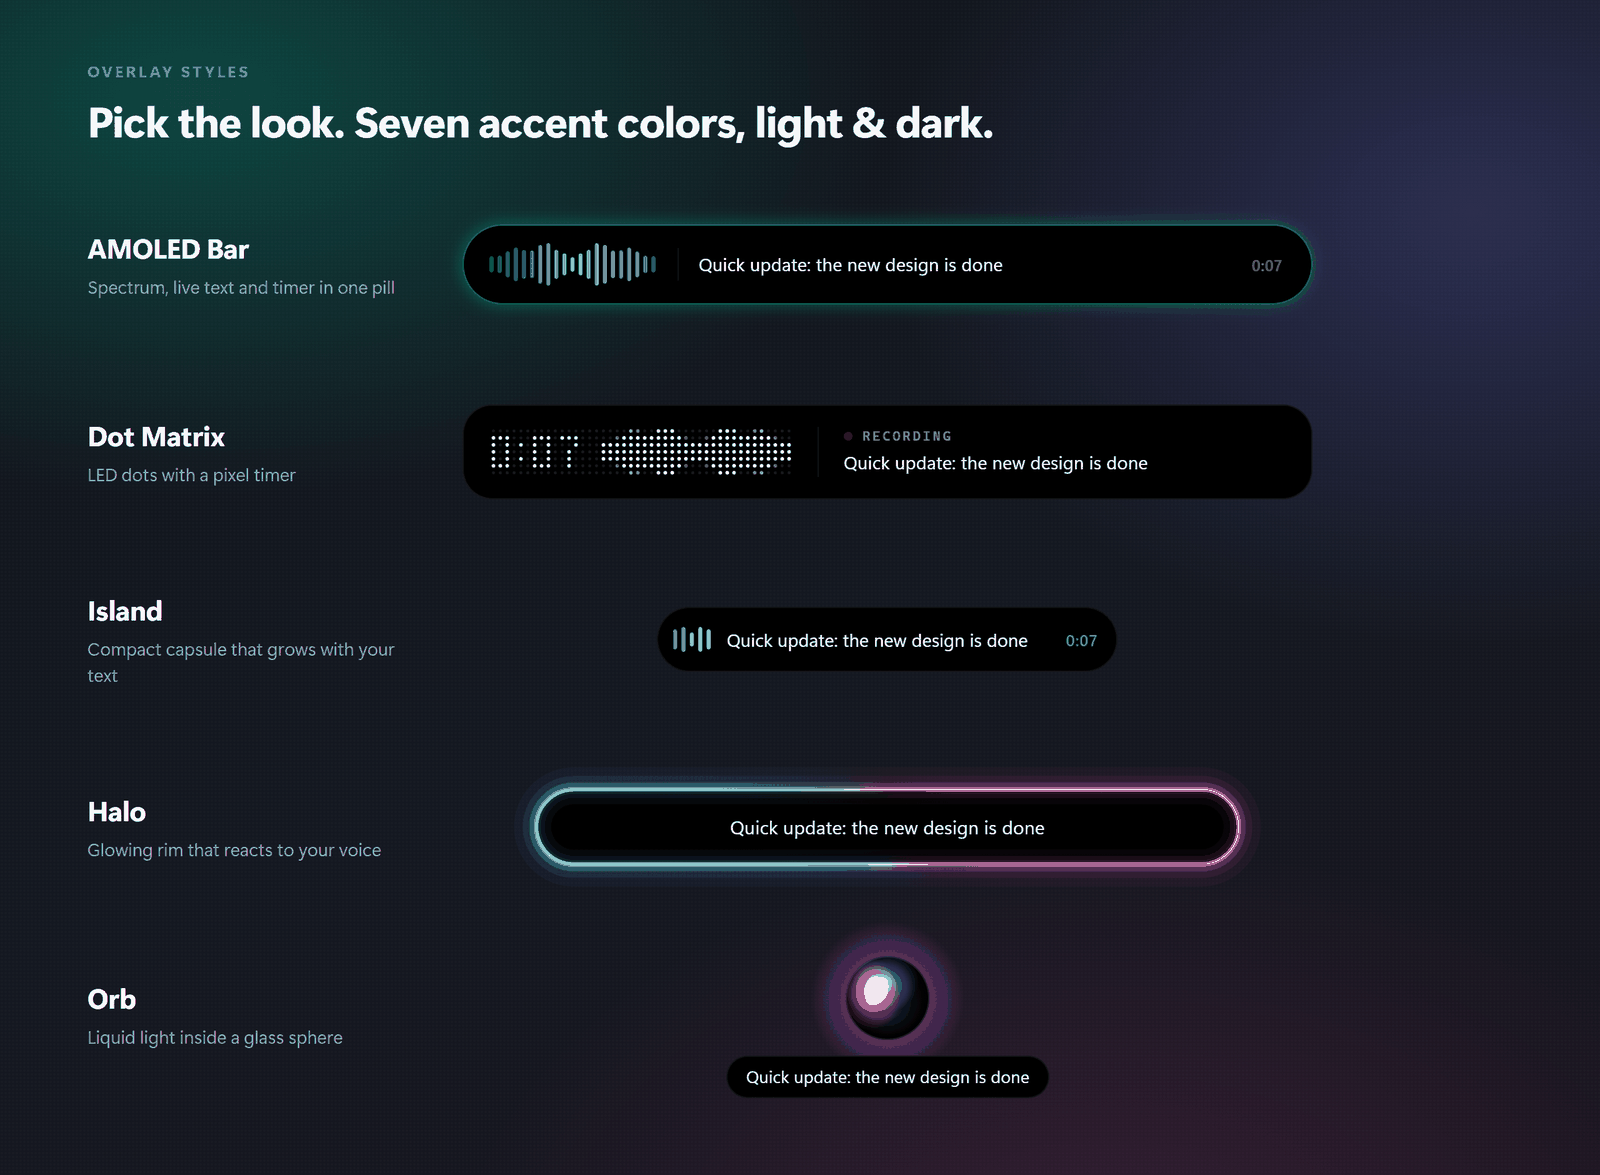
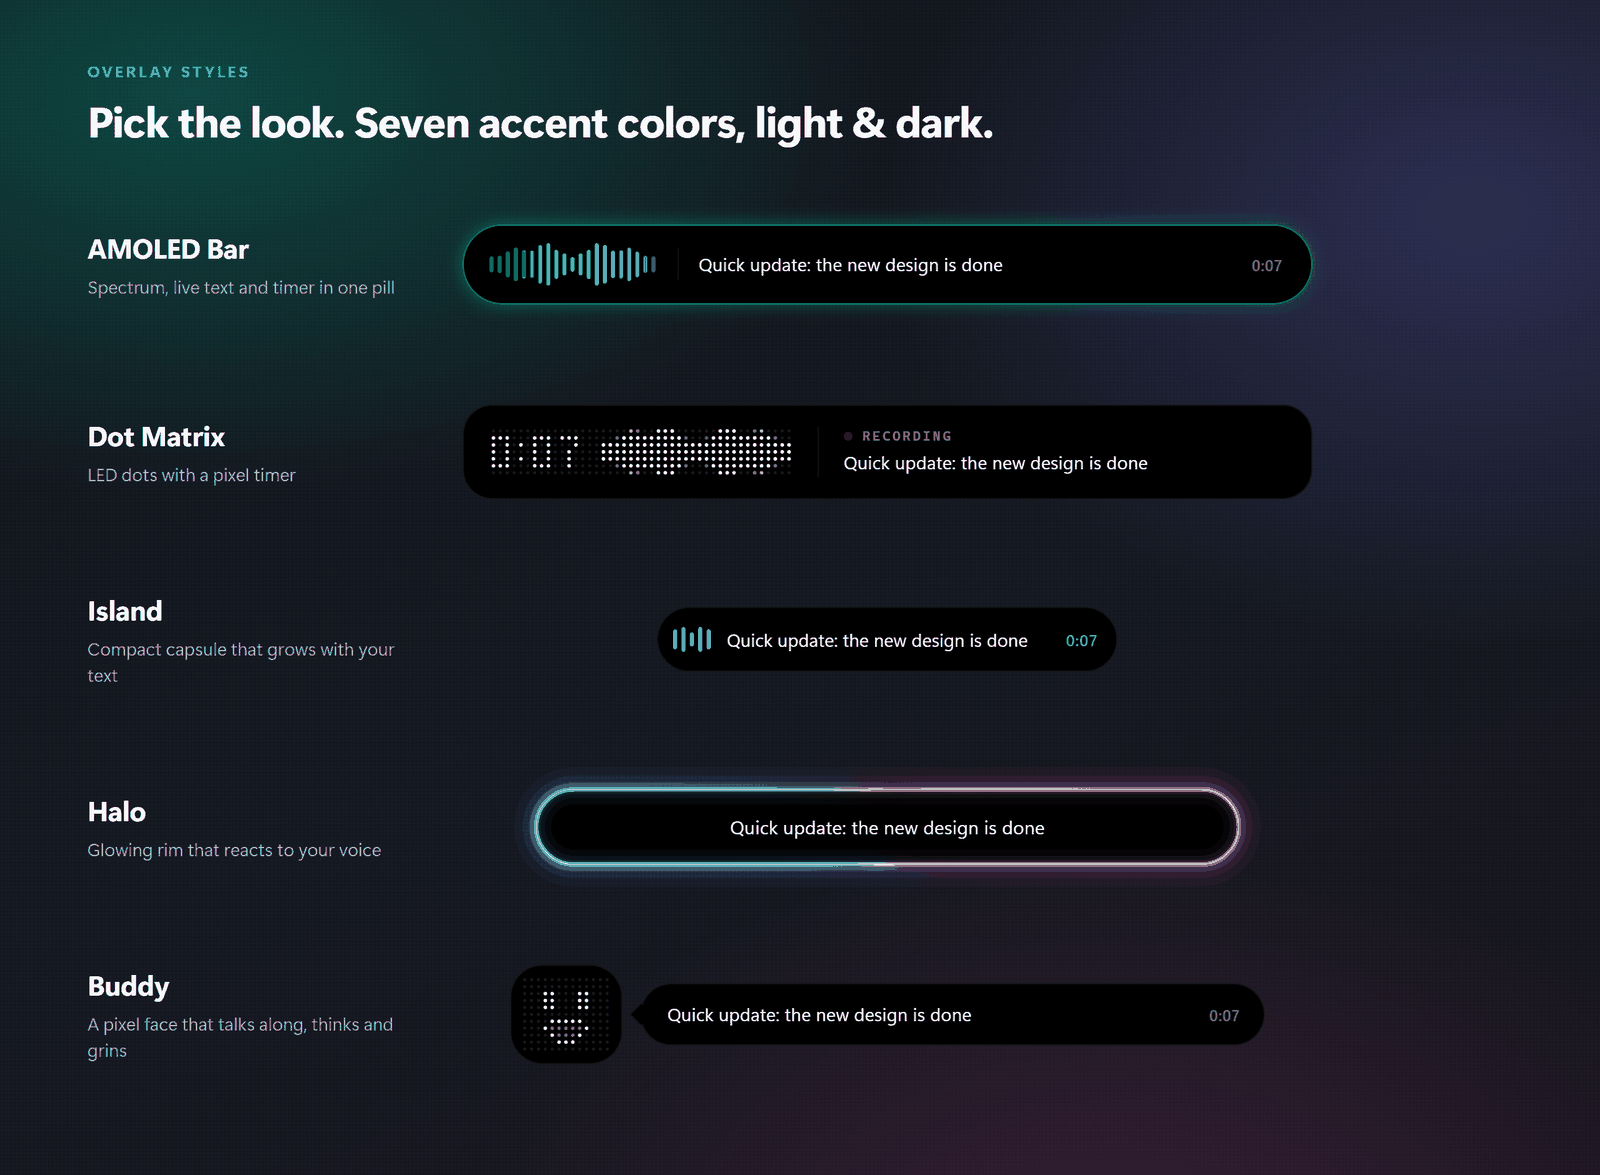
Replace the Orb overlay with Buddy, an LED pixel face
Buddy uses the Dot Matrix dots as a little face next to a speech bubble:
the mouth lip-syncs to your voice, the eyes blink and glance at the text,
it thinks with bouncing dots while processing and grins when done.
Saved orb/aurora/pulse styles migrate to Halo.

diff --git a/electron/overlay.html b/electron/overlay.html
@@ -11,7 +11,7 @@
        matrix  Dot Matrix   LED dot grid: dot-font timer + spectrum
        island  Island       spring-morphing capsule that grows with the text
        halo    Halo         capsule with a luminous, voice-driven color rim
-       orb     Orb          compact liquid-light orb + caption
+       buddy   Buddy        LED pixel face that talks along + speech bubble
      Everything that moves is drawn on small canvases or changes opacity/
      transform only: no CSS blur filters, no backdrop-filter, no per-frame
      box-shadow (transparent always-on-top windows make those expensive and
@@ -42,7 +42,7 @@
   body[data-style="matrix"] .s-matrix,
   body[data-style="island"] .s-island,
   body[data-style="halo"]   .s-halo,
-  body[data-style="orb"]    .s-orb { display: flex; }
+  body[data-style="buddy"]  .s-buddy { display: flex; }
 
   /* Every shape enters with a short spring and leaves with a quick fade;
      main.js sends 'overlay-leaving' ~220 ms before it hides the window. */
@@ -182,19 +182,31 @@
   .ha-body .txt { width: 100%; text-align: center; font-size: 15px; }
   .ha-body .txt.clip { text-align: left; }
 
-  /* ═══ 5. ORB  (window 540×172) ══════════════════════════════════ */
-  .s-orb { flex-direction: column; justify-content: center; padding: 6px 0; }
-  body[data-pos="top"]    .s-orb { justify-content: flex-start; }
-  body[data-pos="bottom"] .s-orb { flex-direction: column-reverse; justify-content: flex-start; }
-  .orb-cv { width: 124px; height: 124px; flex: 0 0 auto; animation: popIn 0.5s cubic-bezier(0.2, 1.2, 0.35, 1) both; }
-  .orb-cap {
-    height: 34px; max-width: 500px; margin: -16px 0 0; border-radius: 17px;
-    background: #000; box-shadow: inset 0 0 0 1px rgba(255, 255, 255, 0.08);
-    display: flex; align-items: center; padding: 0 16px;
-    animation: fadeUp 0.36s 0.06s cubic-bezier(0.16, 1, 0.3, 1) both;
+  /* ═══ 5. BUDDY  (window 652×108) ═════════════════════════════════
+     Same LED dots as the Dot Matrix, arranged as a little face; the live
+     text sits in a speech bubble whose tail points at it. */
+  .s-buddy { gap: 14px; }
+  .bd-face {
+    width: 90px; height: 80px; border-radius: 26px; flex: 0 0 auto;
+    background: #000; box-shadow: inset 0 0 0 1px rgba(255, 255, 255, 0.085);
+    display: flex; align-items: center; justify-content: center;
+    animation: popIn 0.46s cubic-bezier(0.2, 1.25, 0.35, 1) both;
   }
-  body[data-pos="bottom"] .orb-cap { margin: 0 0 -16px; }
-  .orb-cap .txt { max-width: 468px; font-size: 13.5px; }
+  .bd-cv { width: 72px; height: 61px; }
+  .bd-bubble {
+    position: relative; width: 500px; height: 50px; border-radius: 25px;
+    background: #000; box-shadow: inset 0 0 0 1px rgba(255, 255, 255, 0.085);
+    display: flex; align-items: center; gap: 14px; padding: 0 20px 0 22px;
+    animation: fadeUp 0.36s 0.08s cubic-bezier(0.16, 1, 0.3, 1) both;
+  }
+  /* tail: a rotated square whose two outer edges carry the hairline */
+  .bd-bubble::before {
+    content: ''; position: absolute; left: -6px; top: 50%; width: 13px; height: 13px;
+    background: #000; transform: translateY(-50%) rotate(45deg);
+    box-shadow: inset 1px -1px 0 rgba(255, 255, 255, 0.085);
+  }
+  .bd-bubble .txt { flex: 1 1 auto; font-size: 14.5px; }
+  .bd-bubble .time { flex: 0 0 auto; }
 </style>
 </head>
 <body data-style="amoled" data-accent="mint" data-pos="bottom" data-state="idle">
@@ -239,10 +251,13 @@
     </div>
   </section>
 
-  <!-- 5. ORB -->
-  <section class="style s-orb">
-    <canvas class="orb-cv shape" id="orbCv"></canvas>
-    <div class="orb-cap shape"><div class="txt" data-line="1"><span class="shimmer">Ich höre zu…</span></div></div>
+  <!-- 5. BUDDY -->
+  <section class="style s-buddy">
+    <div class="bd-face shape"><canvas class="bd-cv" id="bdFace"></canvas></div>
+    <div class="bd-bubble shape">
+      <div class="txt" data-line="1"><span class="shimmer">Ich höre zu…</span></div>
+      <div class="time" data-timer="mss">0:00</div>
+    </div>
   </section>
 
 <script>
@@ -253,11 +268,11 @@
 // overlay runs a self-contained loop with synthetic speech.
 const DEMO = !window.notype || new URLSearchParams(location.search).has('demo');
 const NB = 20;   // spectrum bands (matches audio_recorder.N_BANDS)
-const STYLES = ['amoled', 'matrix', 'island', 'halo', 'orb'];
+const STYLES = ['amoled', 'matrix', 'island', 'halo', 'buddy'];
 // Ids of styles that no longer exist → their closest successor.
 const LEGACY_STYLES = {
   wave: 'amoled', wave_classic: 'amoled', ribbon: 'amoled', particles: 'amoled', spectrum: 'amoled',
-  aurora: 'orb', pulse: 'orb',
+  aurora: 'halo', pulse: 'halo', orb: 'halo',
   amoled_card: 'amoled', amoled_top: 'amoled', amoled_bottom: 'amoled', amoled_center: 'amoled',
 };
 const ACCENTS = {
@@ -604,61 +619,101 @@ function renderHalo(dt, t) {
   ctx.globalAlpha = 1;
 }
 
-// ═══ 5. ORB ═════════════════════════════════════════════════════
-// Black glass sphere; three coloured light blobs orbit inside and mix
-// additively – louder voice = bigger, faster, brighter.
-const ORB = { a: [0, 2.1, 4.2], spd: [0.9, -1.25, 1.6] };
-function renderOrb(dt, t) {
-  const [ctx, W, H] = prep($('orbCv'));
-  const acc = ACC(), pal = acc.ring, e = energy(), ps = mix.processing, ds = mix.done;
-  const cx = W / 2, cy = H / 2, R = 30 + e * 3.5;
-  const flash = S.state === 'done' ? Math.max(0, 1 - sinceState() * 1.4) : 0;
-  const I = (0.45 + 0.8 * e) * (1 - 0.5 * ps) + flash * 0.7;
-  // outer glow
-  const og = ctx.createRadialGradient(cx, cy, R * 0.7, cx, cy, Math.min(W / 2, R + 28));
-  og.addColorStop(0, `rgba(${acc.glow},${(0.34 * Math.min(1.3, I)).toFixed(3)})`);
-  og.addColorStop(1, `rgba(${acc.glow},0)`);
-  ctx.fillStyle = og; ctx.fillRect(0, 0, W, H);
-  // glass body
-  ctx.beginPath(); ctx.arc(cx, cy, R, 0, Math.PI * 2);
-  ctx.fillStyle = '#000'; ctx.fill();
-  ctx.save(); ctx.clip();
-  // faint base tint so the glass between the lights isn't dead black
-  const base = ctx.createRadialGradient(cx, cy + R * 0.35, 0, cx, cy, R);
-  base.addColorStop(0, pal[2] + '40'); base.addColorStop(1, pal[2] + '00');
-  ctx.fillStyle = base; ctx.fillRect(cx - R, cy - R, R * 2, R * 2);
-  ctx.globalCompositeOperation = 'lighter';
-  for (let k = 0; k < 3; k++) {
-    ORB.a[k] += dt * ORB.spd[k] * (0.55 + e * 2.0) * (1 - ps * 0.6);
-    const orbit = R * (0.34 + 0.16 * e + 0.08 * Math.sin(t * 1.3 + k * 2)) * (1 - ds * 0.7);
-    const bx = cx + Math.cos(ORB.a[k]) * orbit, by = cy + Math.sin(ORB.a[k]) * orbit * 0.85;
-    const br = R * (0.5 + 0.4 * Math.pow(band(0.1 + k * 0.3), 0.8) + 0.05 * Math.sin(t * 2.1 + k));
-    const bg = ctx.createRadialGradient(bx, by, 0, bx, by, br);
-    const col = pal[k % pal.length];
-    bg.addColorStop(0, col); bg.addColorStop(0.35, col + '99'); bg.addColorStop(1, col + '00');
-    ctx.globalAlpha = Math.min(1, 0.45 + 0.5 * I) * (1 - ps * 0.45);
-    ctx.fillStyle = bg; ctx.fillRect(cx - R, cy - R, R * 2, R * 2);
-  }
-  ctx.globalCompositeOperation = 'source-over'; ctx.globalAlpha = 1;
-  // depth: dark rim vignette + specular highlight
-  const vg = ctx.createRadialGradient(cx, cy, R * 0.45, cx, cy, R);
-  vg.addColorStop(0, 'rgba(0,0,0,0)'); vg.addColorStop(1, 'rgba(0,0,0,0.62)');
-  ctx.fillStyle = vg; ctx.fillRect(cx - R, cy - R, R * 2, R * 2);
-  const sg = ctx.createRadialGradient(cx - R * 0.34, cy - R * 0.46, 0, cx - R * 0.34, cy - R * 0.46, R * 0.5);
-  sg.addColorStop(0, 'rgba(255,255,255,0.32)'); sg.addColorStop(1, 'rgba(255,255,255,0)');
-  ctx.fillStyle = sg; ctx.fillRect(cx - R, cy - R, R * 2, R * 2);
-  ctx.restore();
-  ctx.beginPath(); ctx.arc(cx, cy, R - 0.5, 0, Math.PI * 2);
-  ctx.strokeStyle = 'rgba(255,255,255,0.14)'; ctx.lineWidth = 1; ctx.stroke();
-  if (ps > 0.01) {                                            // processing: orbiting arc
-    ctx.beginPath(); ctx.arc(cx, cy, R + 4, t * 5, t * 5 + 1.1);
-    ctx.strokeStyle = acc.hi; ctx.globalAlpha = ps * 0.9; ctx.lineWidth = 2; ctx.lineCap = 'round'; ctx.stroke();
-    ctx.globalAlpha = 1;
-  }
-  if (ds > 0.01) drawCheck(ctx, cx, cy, 10, doneProgress(), '#ffffff', 2.8);
+// ═══ 5. BUDDY ════════════════════════════════════════════════════
+// 13 × 11 LED face at the Dot Matrix pitch. The mouth opens with your
+// voice, the eyes blink and now and then glance at the bubble; while
+// processing it looks up and "thinks" (bouncing dots), when done it grins.
+const BD = { C: 13, R: 11, P: 5.5, env: 0, peak: 0, mouth: 0, mouthAt: 0, talkUntil: 0, blinkAt: 0, glanceAt: 0, glanceEnd: 0 };
+// Mouth frames for rows 6-9, columns 3-9: 1 = lip (white), 2 = inside (accent).
+const BD_MOUTH = [
+  ['1000001', '0111110', '0000000', '0000000'],   // resting smile
+  ['0000000', '0111110', '0000000', '0000000'],   // closed, mid-sentence
+  ['0011100', '0122210', '0011100', '0000000'],   // small "o"
+  ['0111110', '1222221', '0122210', '0011100'],   // open
+  ['0111110', '1222221', '1222221', '0111110'],   // wide open
+];
+const BD_GRIN = ['1111111', '1222221', '0122210', '0011100'];
+const BD_HAPPY_EYE = ['010', '101'];
+const bdLit = new Float32Array(BD.C * BD.R);
+const bdAcc = new Uint8Array(BD.C * BD.R);
+
+function bdDot(c, r, v, acc) {
+  if (c < 0 || r < 0 || c >= BD.C || r >= BD.R) return;
+  const i = r * BD.C + c;
+  if (v >= bdLit[i]) { bdLit[i] = v; bdAcc[i] = acc ? 1 : 0; }
+}
+function bdGlyph(rows, c0, r0, v) {
+  rows.forEach((row, r) => {
+    for (let k = 0; k < row.length; k++) {
+      if (row[k] !== '0') bdDot(c0 + k, r0 + r, row[k] === '2' ? v * 0.55 : v, row[k] === '2');
+    }
+  });
 }
 
-const RENDER = { amoled: renderAmoled, matrix: renderMatrix, island: renderIsland, halo: renderHalo, orb: renderOrb };
+function renderBuddy(dt, t) {
+  const [ctx, W, H] = prep($('bdFace'));
+  const { C, R, P } = BD, ms = now();
+  bdLit.fill(0); bdAcc.fill(0);
+  if (!BD.blinkAt || ms > BD.blinkAt + 130) BD.blinkAt = ms + 2200 + Math.random() * 3400;
+  if (ms > BD.glanceEnd) { BD.glanceAt = ms + 3000 + Math.random() * 4000; BD.glanceEnd = BD.glanceAt + 900; }
+  const blink = ms >= BD.blinkAt;
+
+  if (S.state === 'done') {
+    const p = doneProgress();
+    for (const c0 of [2, 8]) bdGlyph(BD_HAPPY_EYE, c0, 2, p);
+    bdGlyph(BD_GRIN, 3, 6, p);
+    for (const c of [1, 11]) bdDot(c, 5, 0.7 * p, true);          // blush
+  } else if (S.state === 'processing') {
+    // looking up and to the side, thinking – three dots hop in turn
+    for (const c0 of [4, 9]) for (let r = 1; r <= 3; r++) {
+      if (!blink || r === 2) { bdDot(c0, r, 0.92); bdDot(c0 + 1, r, 0.92); }
+    }
+    for (let k = 0; k < 3; k++) {
+      const hop = Math.max(0, Math.sin(t * 7 - k * 0.9));
+      bdDot(4 + k * 2, hop > 0.55 ? 6 : 7, 0.5 + 0.5 * hop, true);
+    }
+  } else {
+    const glance = ms >= BD.glanceAt && ms < BD.glanceEnd ? 1 : 0;
+    for (const c0 of [3, 8]) for (let r = 2; r <= 4; r++) {
+      if (!blink || r === 3) { bdDot(c0 + glance, r, 0.92); bdDot(c0 + 1 + glance, r, 0.92); }
+    }
+    if (S.command) for (const c0 of [3, 8]) { bdDot(c0 + glance, 0, 0.92); bdDot(c0 + 1 + glance, 0, 0.92); }
+    // Lip sync: a fast envelope of the raw input with auto-gain, so the
+    // mouth opens and closes per syllable at any mic level.
+    let raw = levelIn;
+    if (haveBands) { raw = 0; for (let i = 2; i < 14; i++) raw += bandsIn[i]; raw /= 12; }
+    if (S.state !== 'listening') raw = 0;
+    BD.env += (raw - BD.env) * (1 - Math.exp(-dt / (raw > BD.env ? 0.03 : 0.09)));
+    BD.peak = Math.max(BD.env, BD.peak * Math.exp(-dt / 1.5), 0.08);
+    const o = BD.env / BD.peak;
+    if (o > 0.3) BD.talkUntil = ms + 450;
+    const m = o > 0.82 ? 4 : o > 0.58 ? 3 : o > 0.32 ? 2 : ms < BD.talkUntil ? 1 : 0;
+    if (m !== BD.mouth && ms - BD.mouthAt > 70) { BD.mouth = m; BD.mouthAt = ms; }
+    bdGlyph(BD_MOUTH[BD.mouth], 3, 6, 0.92);
+  }
+
+  // boot-up: the face switches on column by column, like the Dot Matrix
+  const boot = S.state === 'listening' ? clamp01((ms - S.recAt) / 360) : 1;
+  const acc = ACC().bar[0];
+  for (let r = 0; r < R; r++) {
+    for (let c = 0; c < C; c++) {
+      if (c / C > boot) continue;
+      const idx = r * C + c, v = bdLit[idx];
+      ctx.beginPath();
+      ctx.arc((c + 0.5) * P, (r + 0.5) * (H / R), v > 0.05 ? 1.45 : 1.2, 0, Math.PI * 2);
+      if (v > 0.05) {
+        ctx.fillStyle = bdAcc[idx] ? acc : '#ffffff';
+        ctx.globalAlpha = 0.25 + 0.75 * v;
+      } else {
+        ctx.fillStyle = '#ffffff'; ctx.globalAlpha = 0.1;
+      }
+      ctx.fill();
+    }
+  }
+  ctx.globalAlpha = 1;
+}
+
+const RENDER = { amoled: renderAmoled, matrix: renderMatrix, island: renderIsland, halo: renderHalo, buddy: renderBuddy };
 
 // ── Text + timer ──────────────────────────────────────────────────
 // kind: 'live' (transcript), 'final' (inserted text), 'status' (placeholder)

diff --git a/electron/settings.html b/electron/settings.html
@@ -921,7 +921,7 @@
       'ovl.matrix': 'Dot Matrix', 'ovl.matrix.desc': 'LED-Punkte mit Pixel-Timer – im Nothing-Stil',
       'ovl.island': 'Island', 'ovl.island.desc': 'Kompakte Kapsel, die mit dem Text mitwächst',
       'ovl.halo': 'Halo', 'ovl.halo.desc': 'Leuchtender Farbrand, der auf deine Stimme reagiert',
-      'ovl.orb': 'Orb', 'ovl.orb.desc': 'Flüssiges Licht in einer Glaskugel',
+      'ovl.buddy': 'Buddy', 'ovl.buddy.desc': 'Pixel-Gesicht, das mitredet, mitdenkt und grinst',
       'acc.mint': 'Mint', 'acc.mono': 'Mono', 'acc.aurora': 'Aurora', 'acc.blue': 'Blau',
       'acc.violet': 'Violett', 'acc.red': 'Rot', 'acc.amber': 'Bernstein',
       'system.audio': 'Audio', 'system.mic': 'Mikrofon', 'system.mic.desc': 'Audioeingangsgerät auswählen',
@@ -1012,7 +1012,7 @@
       'ovl.matrix': 'Dot Matrix', 'ovl.matrix.desc': 'LED dots with a pixel timer – Nothing style',
       'ovl.island': 'Island', 'ovl.island.desc': 'Compact capsule that grows with your text',
       'ovl.halo': 'Halo', 'ovl.halo.desc': 'Glowing color rim that reacts to your voice',
-      'ovl.orb': 'Orb', 'ovl.orb.desc': 'Liquid light inside a glass sphere',
+      'ovl.buddy': 'Buddy', 'ovl.buddy.desc': 'Pixel face that talks along, thinks and grins',
       'acc.mint': 'Mint', 'acc.mono': 'Mono', 'acc.aurora': 'Aurora', 'acc.blue': 'Blue',
       'acc.violet': 'Violet', 'acc.red': 'Red', 'acc.amber': 'Amber',
       'system.audio': 'Audio', 'system.mic': 'Microphone', 'system.mic.desc': 'Select the audio input device',
@@ -1566,12 +1566,12 @@
   };
 
   // ── Overlay: style cards, accent swatches, live preview ──
-  const OVL_STYLES = ['amoled', 'matrix', 'island', 'halo', 'orb'];
+  const OVL_STYLES = ['amoled', 'matrix', 'island', 'halo', 'buddy'];
   // Retired style ids → successor (mirrors main.js LEGACY_OVERLAY_STYLES).
   const OVL_LEGACY = {
     amoled_top: 'amoled', amoled_bottom: 'amoled', amoled_center: 'amoled', amoled_card: 'amoled',
     wave: 'amoled', wave_classic: 'amoled', ribbon: 'amoled', particles: 'amoled', spectrum: 'amoled',
-    aurora: 'orb', pulse: 'orb',
+    aurora: 'halo', pulse: 'halo', orb: 'halo',
   };
   const OVL_LEGACY_POS = { amoled_top: 'top', amoled_bottom: 'bottom', amoled_center: 'center' };
   const OVL_ACCENTS = {
@@ -1625,13 +1625,19 @@
         <rect x="10" y="16" width="100" height="20" rx="10" fill="none" stroke="url(#tgHa)" stroke-width="3.5" opacity=".35"/>
         <rect x="10" y="16" width="100" height="20" rx="10" fill="#000" stroke="url(#tgHa)" stroke-width="1.3"/>
         <path d="M40 26h40" stroke="rgba(255,255,255,.75)" stroke-width="2.2" stroke-linecap="round"/></svg>`,
-    orb: `<svg viewBox="0 0 120 52"><defs>
-        <radialGradient id="tgOrb" cx=".4" cy=".35" r=".75"><stop offset="0" style="stop-color:var(--g2)"/>
-        <stop offset=".55" style="stop-color:var(--g3)"/><stop offset="1" stop-color="#000"/></radialGradient></defs>
-        <circle cx="60" cy="20" r="14" style="fill:var(--g2)" opacity=".16"/>
-        <circle cx="60" cy="20" r="10" fill="url(#tgOrb)" ${RIM}/>
-        <rect x="38" y="33" width="44" height="11" rx="5.5" fill="#000" ${RIM}/>
-        <path d="M45 38.5h30" stroke="rgba(255,255,255,.75)" stroke-width="1.8" stroke-linecap="round"/></svg>`,
+    buddy: (() => {
+      // 7 × 7 mini face (1 = lit, 2 = accent): eyes and a smile
+      const face = ['0000000', '0010100', '0010100', '0000000', '0200020', '0022200', '0000000'];
+      let d = '';
+      face.forEach((row, r) => [...row].forEach((v, c) => {
+        const fill = v === '2' ? 'var(--g1)' : v === '1' ? '#fff' : 'rgba(255,255,255,.12)';
+        d += `<circle cx="${11.4 + c * 3.2}" cy="${16.4 + r * 3.2}" r="${v !== '0' ? 1 : 0.65}" style="fill:${fill}"/>`;
+      }));
+      return `<svg viewBox="0 0 120 52"><rect x="6" y="11" width="30" height="30" rx="9" fill="#000" ${RIM}/>${d}
+        <path d="M54 16h49a10 10 0 0 1 0 20h-49a10 10 0 0 1-10-7.2l-3.2-2.8 3.2-2.8a10 10 0 0 1 10-7.2z" fill="#000" ${RIM}/>
+        <path d="M55 26h33" stroke="rgba(255,255,255,.75)" stroke-width="2.2" stroke-linecap="round"/>
+        <path d="M95 26h8" stroke="rgba(255,255,255,.35)" stroke-width="2.2" stroke-linecap="round"/></svg>`;
+    })(),
   };
   let ovlStyle = 'amoled', ovlAccent = 'mint';
 

diff --git a/electron/main.js b/electron/main.js
@@ -595,22 +595,22 @@ function handlePythonMessage(line) {
 // computed per-display so multi-monitor setups work.
 // Every style can sit at the bottom, top or center of the screen
 // (config.overlay_position). `bottom`/`top` are the per-style margins from
-// that screen edge – orbs float a bit higher than bars so they don't sit on
-// the taskbar. All styles render the live transcript themselves; each window
-// carries transparent padding so glows fade out inside it instead of being
-// clipped into a hard rectangle (sizes match the fixed layouts in overlay.html).
+// that screen edge. All styles render the live transcript themselves; each
+// window carries transparent padding so glows fade out inside it instead of
+// being clipped into a hard rectangle (sizes match the fixed layouts in
+// overlay.html).
 const OVERLAY_STYLES = {
   amoled: { w: 708, h: 92,  bottom: 14, top: 2 },   // pill 680×64
   matrix: { w: 708, h: 104, bottom: 14, top: 2 },   // card 680×76
   island: { w: 648, h: 116, bottom: 6,  top: 0 },   // morphing shape, ≤600×72
   halo:   { w: 616, h: 118, bottom: 0,  top: 0 },   // capsule 560×58 + rim glow
-  orb:    { w: 540, h: 172, bottom: 16, top: 0 },   // orb 110 + caption
+  buddy:  { w: 652, h: 108, bottom: 10, top: 0 },   // face 90×80 + bubble 500×50
 };
 const DEFAULT_OVERLAY_STYLE = 'amoled';
 const OVERLAY_POSITIONS = ['bottom', 'top', 'center'];
 const OVERLAY_ACCENTS = ['mint', 'mono', 'aurora', 'blue', 'violet', 'red', 'amber'];
 // Retired style ids → [successor, position]. Pre-2.6 the AMOLED placement was
-// baked into the id; 2.7 replaced the classic visualizers.
+// baked into the id; 2.7 replaced the classic visualizers (and dropped the Orb).
 const LEGACY_OVERLAY_STYLES = {
   amoled_top:    ['amoled', 'top'],
   amoled_bottom: ['amoled', 'bottom'],
@@ -621,8 +621,9 @@ const LEGACY_OVERLAY_STYLES = {
   ribbon:        ['amoled', null],
   particles:     ['amoled', null],
   spectrum:      ['amoled', null],
-  aurora:        ['orb', null],
-  pulse:         ['orb', null],
+  aurora:        ['halo', null],
+  pulse:         ['halo', null],
+  orb:           ['halo', null],
 };
 
 // Map legacy style ids onto style + position and fill defaults.

diff --git a/config.py b/config.py
@@ -59,7 +59,7 @@ DEFAULT_CONFIG = {
     "autostart": False,
     "auto_language_detect": True,
     "overlay_enabled": True,
-    "overlay_style": "amoled",       # amoled | matrix | island | halo | orb (retired ids are migrated by the Electron app)
+    "overlay_style": "amoled",       # amoled | matrix | island | halo | buddy (retired ids are migrated by the Electron app)
     "overlay_position": "bottom",    # bottom | top | center – applies to every style
     "overlay_accent": "mint",        # mint | mono | aurora | blue | violet | red | amber
     "overlay_sounds": True,          # start/stop chimes

diff --git a/README.md b/README.md
@@ -82,9 +82,9 @@ Prefer not to hold a key? Switch to **press once to start, press again to stop**
 
 ### Pick your overlay
 
-<img src="docs/assets/overlay-styles.png" alt="The five overlay styles: AMOLED Bar, Dot Matrix, Island, Halo and Orb" width="100%" />
+<img src="docs/assets/overlay-styles.png" alt="The five overlay styles: AMOLED Bar, Dot Matrix, Island, Halo and Buddy" width="100%" />
 
-Five designs react to the actual sound of your voice: **AMOLED Bar**, **Dot Matrix**, **Island**, **Halo** and **Orb**. Each comes in seven accent colors, light and dark, with optional start and stop sounds. Place the overlay at the bottom, top or center of your screen. The settings show a live preview, so you can see it before you choose it.
+Five designs react to the actual sound of your voice: **AMOLED Bar**, **Dot Matrix**, **Island**, **Halo** and **Buddy**, a little LED face that talks along while you speak, thinks while NoType works and grins when your text is in. Each comes in seven accent colors, light and dark, with optional start and stop sounds. Place the overlay at the bottom, top or center of your screen. The settings show a live preview, so you can see it before you choose it.
 
 ### It learns your words
 
